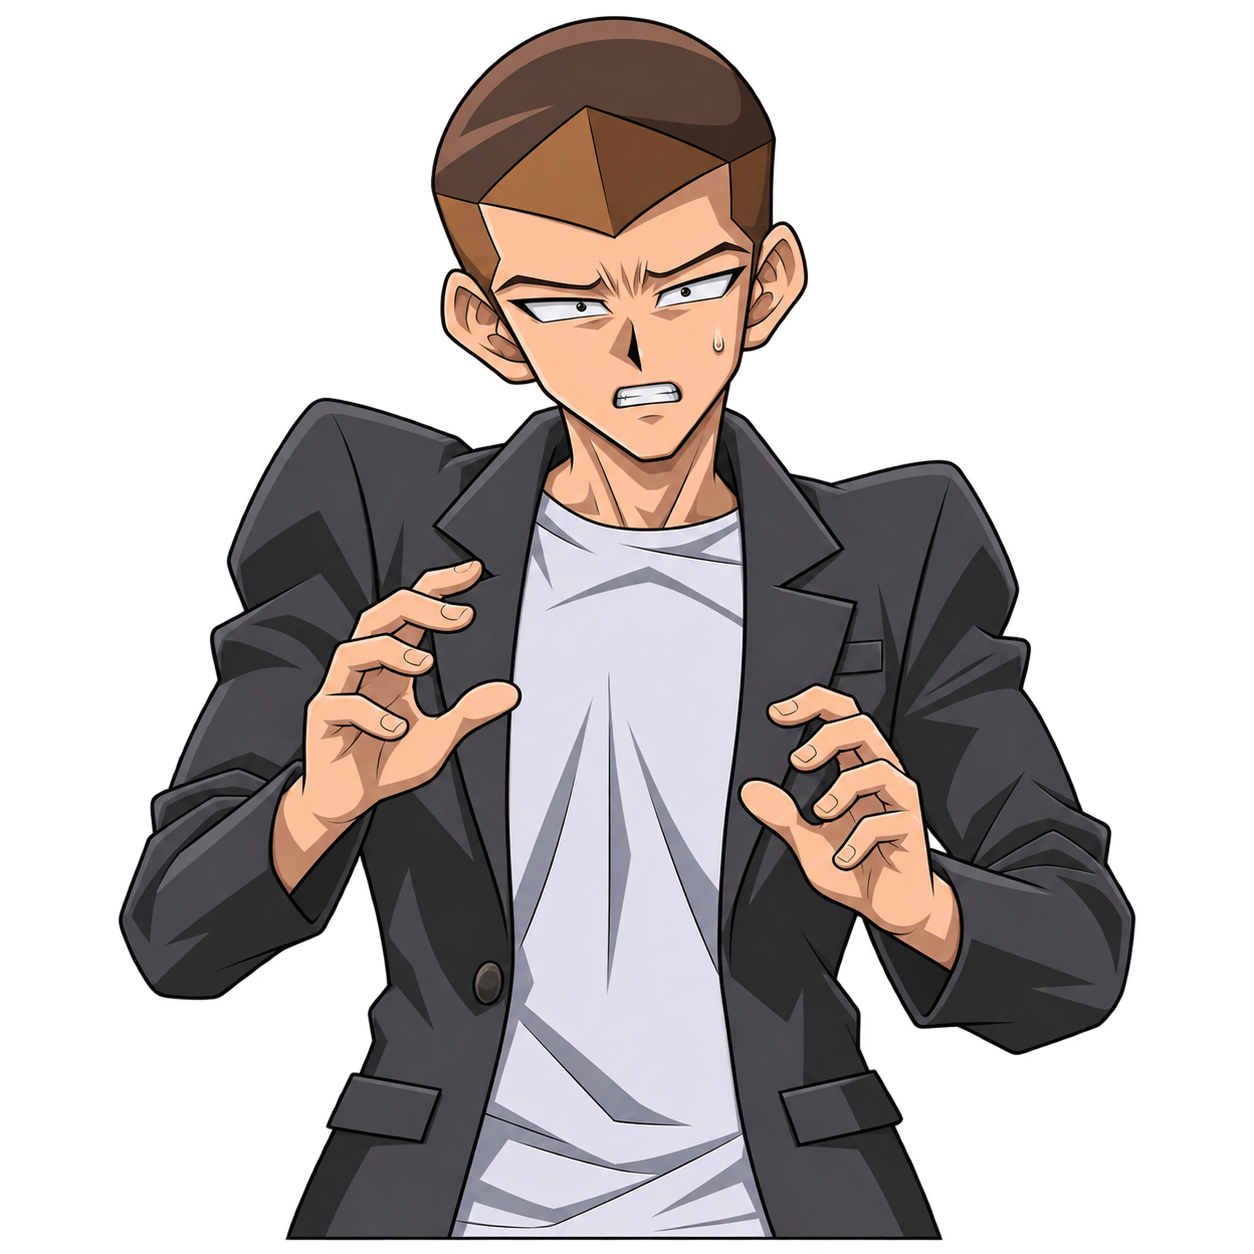
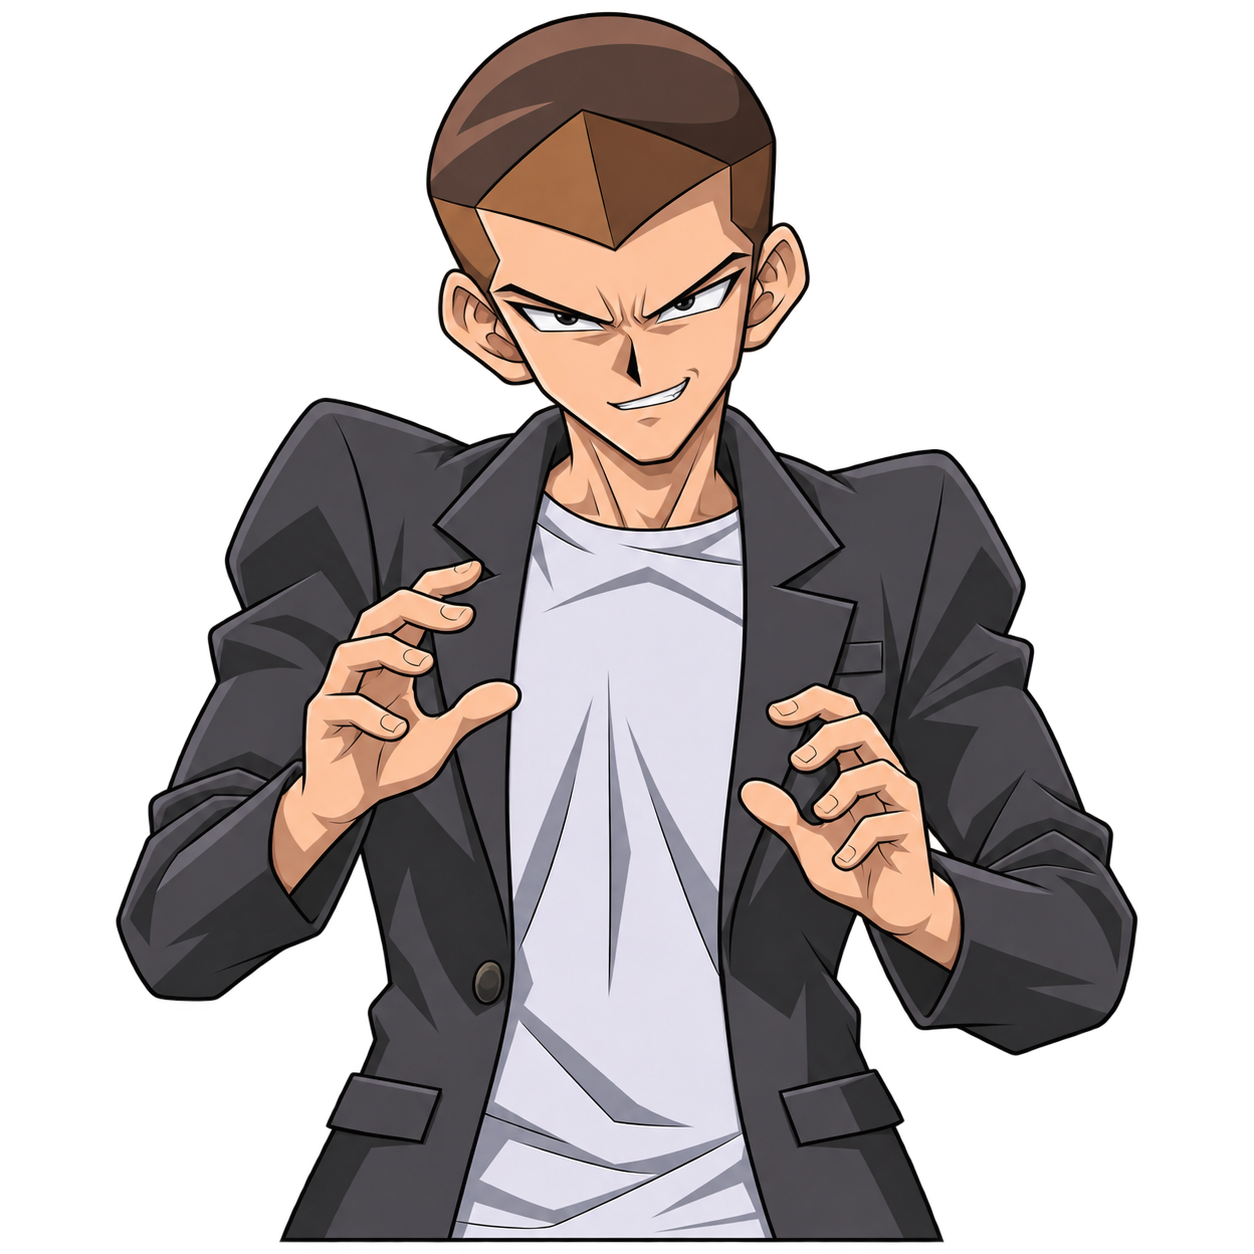
Mantiene arrogante la posa danno di Tristan
Suite completa non eseguita.

diff --git a/sw.js b/sw.js
@@ -575,8 +575,8 @@
 // v772: controllori e livello IA espliciti nella sandbox di prova.
 // v773: le Fusioni WebGL di Livello 7+ vengono rivelate nello slot dopo la scena.
 // v794: Tristan posseduto dai Big Five, mazzi a difficoltà, dialoghi e nuove pedine.
-// v796: espressione danno di Tristan più intontita e dolorante.
-const CACHE_NAME = 'ygo-duel-arena-v796';
+// v797: posa danno di Tristan mantiene lo sguardo arrogante dei Big Five.
+const CACHE_NAME = 'ygo-duel-arena-v797';
 
 // CACHE DEI MEDIA (immagini, e tutto cio' che non e' app shell), SEPARATA e con un nome che NON cambia a ogni rilascio.
 // Prima stavano nella stessa cache dell'app shell, e `activate` butta ogni cache che non sia quella corrente: ad ogni aggiornamento
@@ -585,7 +585,7 @@ const CACHE_NAME = 'ygo-duel-arena-v796';
 // REGOLA NUOVA: un'immagine NUOVA (nome nuovo) non richiede nulla; un'immagine che CAMBIA contenuto tenendo lo STESSO nome si vedrebbe
 // vecchia per sempre (cache-first): in quel caso, e solo in quel caso, si cambia il suffisso qui sotto (-v1 -> -v2), che scarta
 // l'intera cache dei media. Tutti i commenti storici qui sopra che dicono "il bump serve" per un media vanno letti cosi'.
-const MEDIA_CACHE = 'ygo-duel-arena-media-v3';
+const MEDIA_CACHE = 'ygo-duel-arena-media-v4';
 
 // L'intera "app shell": tutte le pagine HTML + tutto il codice JS/CSS che
 // le fa funzionare. Leggero (pochi MB in tutto), quindi si può precaricare

diff --git a/js/version.js b/js/version.js
@@ -874,4 +874,4 @@
  *   torneo paga solo la propria valuta; niente più stiramento elastico
  *   a fine scroll su nessuna pagina.
  */
-window.GAME_VERSION = '1.9.25';
+window.GAME_VERSION = '1.9.26';
